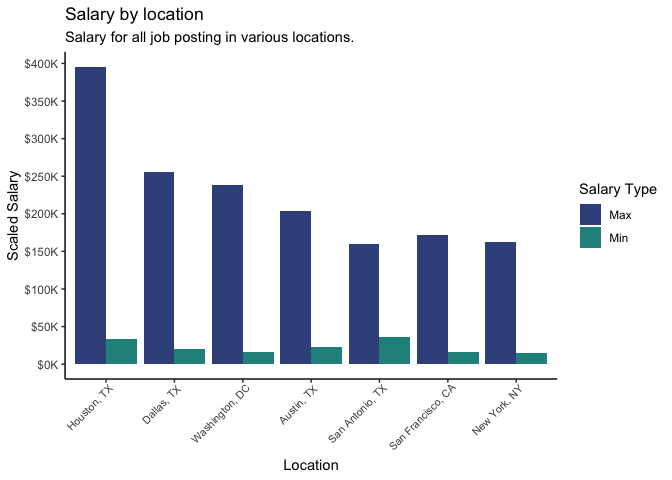
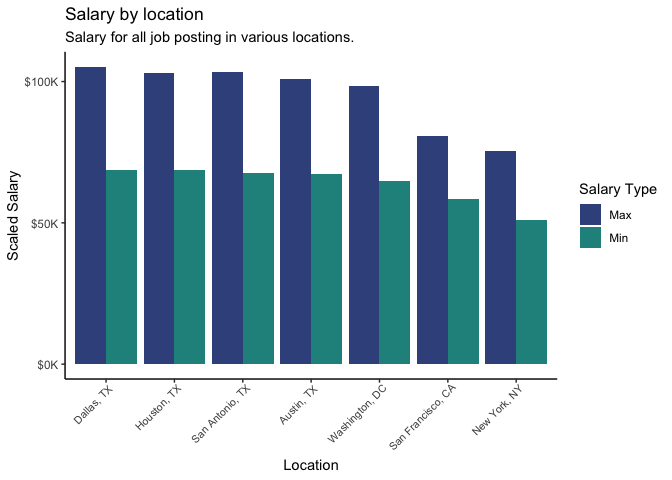
fixed mean in salary graphs

diff --git a/EDA/Job_Types.md b/EDA/Job_Types.md
@@ -10,7 +10,7 @@ library(ggalluvial)
 
 Job types :
 
-Viewwing the job typs from the data set :
+Viewing the job typs from the data set :
 
 ``` r
 ds_jobs <- read.csv("../Data Cleaning/ds_jobs.csv")
@@ -19,10 +19,10 @@ ds_jobs <- read.csv("../Data Cleaning/ds_jobs.csv")
 Below are the job types :
 
   - Contractor
-  - Fulltime
+  - Full time
   - Intern
   - Other
-  - Parttime
+  - Part time
   - Temporary
 
 <!-- end list -->
@@ -32,11 +32,7 @@ data_jobs <- ds_jobs %>%
   group_by(job_category) %>% 
   summarize(count = n()) %>% 
   filter(!job_category %in% c('Biology', 'Consultant', 'Research Scientist', 'Computer Scientist', NA))
-```
 
-    ## `summarise()` ungrouping output (override with `.groups` argument)
-
-``` r
 ds_jobs %>% 
   filter(job_category %in% data_jobs$job_category) %>% 
   group_by(job_type, metro_location) %>% 
@@ -53,11 +49,6 @@ ds_jobs %>%
   scale_fill_viridis(discrete = TRUE, name = "Job type")+
   theme( axis.text.x = element_text(angle = 45, vjust = 1, hjust=0.95, size = 8))
 ```
-
-    ## `summarise()` regrouping output by 'job_type' (override with `.groups` argument)
-
-    ## Scale for 'fill' is already present. Adding another scale for 'fill', which
-    ## will replace the existing scale.
 
 ![](Job_Types_files/figure-gfm/unnamed-chunk-3-1.png)<!-- -->
 
@@ -78,10 +69,6 @@ ds_jobs %>%
   scale_fill_viridis(discrete = TRUE, name = "Location")+
   theme( axis.text.x = element_text(angle = 45, vjust = 1, hjust=0.95, size = 8))
 ```
-
-    ## `summarise()` regrouping output by 'job_type' (override with `.groups` argument)
-    ## Scale for 'fill' is already present. Adding another scale for 'fill', which
-    ## will replace the existing scale.
 
 ![](Job_Types_files/figure-gfm/unnamed-chunk-3-2.png)<!-- --> Table
 interpretation of above visualization plots. From the data set,
@@ -115,11 +102,7 @@ data_jobs <- ds_jobs %>%
   group_by(job_category) %>% 
   summarize(count = n()) %>% 
   filter(!job_category %in% c('Biology', 'Consultant', 'Research Scientist', 'Computer Scientist', NA))
-```
 
-    ## `summarise()` ungrouping output (override with `.groups` argument)
-
-``` r
 ds_jobs %>% 
   filter(job_category %in% data_jobs$job_category) %>% 
   group_by(job_type, metro_location) %>% 
@@ -136,11 +119,6 @@ ds_jobs %>%
   scale_fill_viridis(discrete = TRUE, name = "Job type")+
   theme( axis.text.x = element_text(angle = 45, vjust = 1, hjust=0.95, size = 8))
 ```
-
-    ## `summarise()` regrouping output by 'job_type' (override with `.groups` argument)
-
-    ## Scale for 'fill' is already present. Adding another scale for 'fill', which
-    ## will replace the existing scale.
 
 ![](Job_Types_files/figure-gfm/unnamed-chunk-5-1.png)<!-- -->
 
@@ -167,21 +145,11 @@ ds_filter3 <- ds_filter2 %>%
   arrange(desc(count)) %>%
   slice(1:5)%>%
   ungroup()
-```
-
-    ## `summarise()` ungrouping output (override with `.groups` argument)
-
-``` r
 ds_filter2 <- ds_filter2 %>%
   filter(industry == ds_filter3$industry) %>%
   filter(!is.na(job_category)) %>%
   filter(job_category == "Data Analyst" | job_category == "Data Engineer" | job_category == "Data Scientist" | job_category == "Machine Learning" | job_category == "Statistics" | job_category == "Other Analyst")
-```
 
-    ## Warning in industry == ds_filter3$industry: longer object length is not a
-    ## multiple of shorter object length
-
-``` r
 df <- table(ds_filter2$job_category, ds_filter2$industry)
 dff <- data.frame(df)
 
@@ -229,15 +197,10 @@ ggplot(table_date_posted, aes(x = Var1, y = Freq)) +
 # Salary by location
 
 ``` r
-library(viridis)
 df <- ds_jobs %>%
              group_by(metro_location) %>%
-             summarise(min = min(min_scaled_salary, na.rm = TRUE),max = max(max_scaled_salary, na.rm = TRUE))
-```
+             summarise(min = mean(min_scaled_salary, na.rm = TRUE),max = mean(max_scaled_salary, na.rm = TRUE))
 
-    ## `summarise()` ungrouping output (override with `.groups` argument)
-
-``` r
 salary_data_loc <- df %>% pivot_longer(
                 cols = c(min, max),
                 names_to = "type",
@@ -269,21 +232,10 @@ ds_filter <- ds_jobs %>%
   filter(!is.na(job_category)) %>%
   filter(job_category == "Data Analyst" | job_category == "Data Engineer" | job_category == "Data Scientist" | job_category == "Machine Learning" | job_category == "Statistics" | job_category == "Other Analyst")
 
-library(viridis)
 df <- ds_filter %>%
              group_by(metro_location) %>%
-             summarise(min = min(min_scaled_salary, na.rm = TRUE),max = max(max_scaled_salary, na.rm = TRUE))
-```
+             summarise(min = mean(min_scaled_salary, na.rm = TRUE),max = mean(max_scaled_salary, na.rm = TRUE))
 
-    ## Warning in min(min_scaled_salary, na.rm = TRUE): no non-missing arguments to
-    ## min; returning Inf
-
-    ## Warning in max(max_scaled_salary, na.rm = TRUE): no non-missing arguments to
-    ## max; returning -Inf
-
-    ## `summarise()` ungrouping output (override with `.groups` argument)
-
-``` r
 salary_data_loc <- df %>% pivot_longer(
                 cols = c(min, max),
                 names_to = "type",
